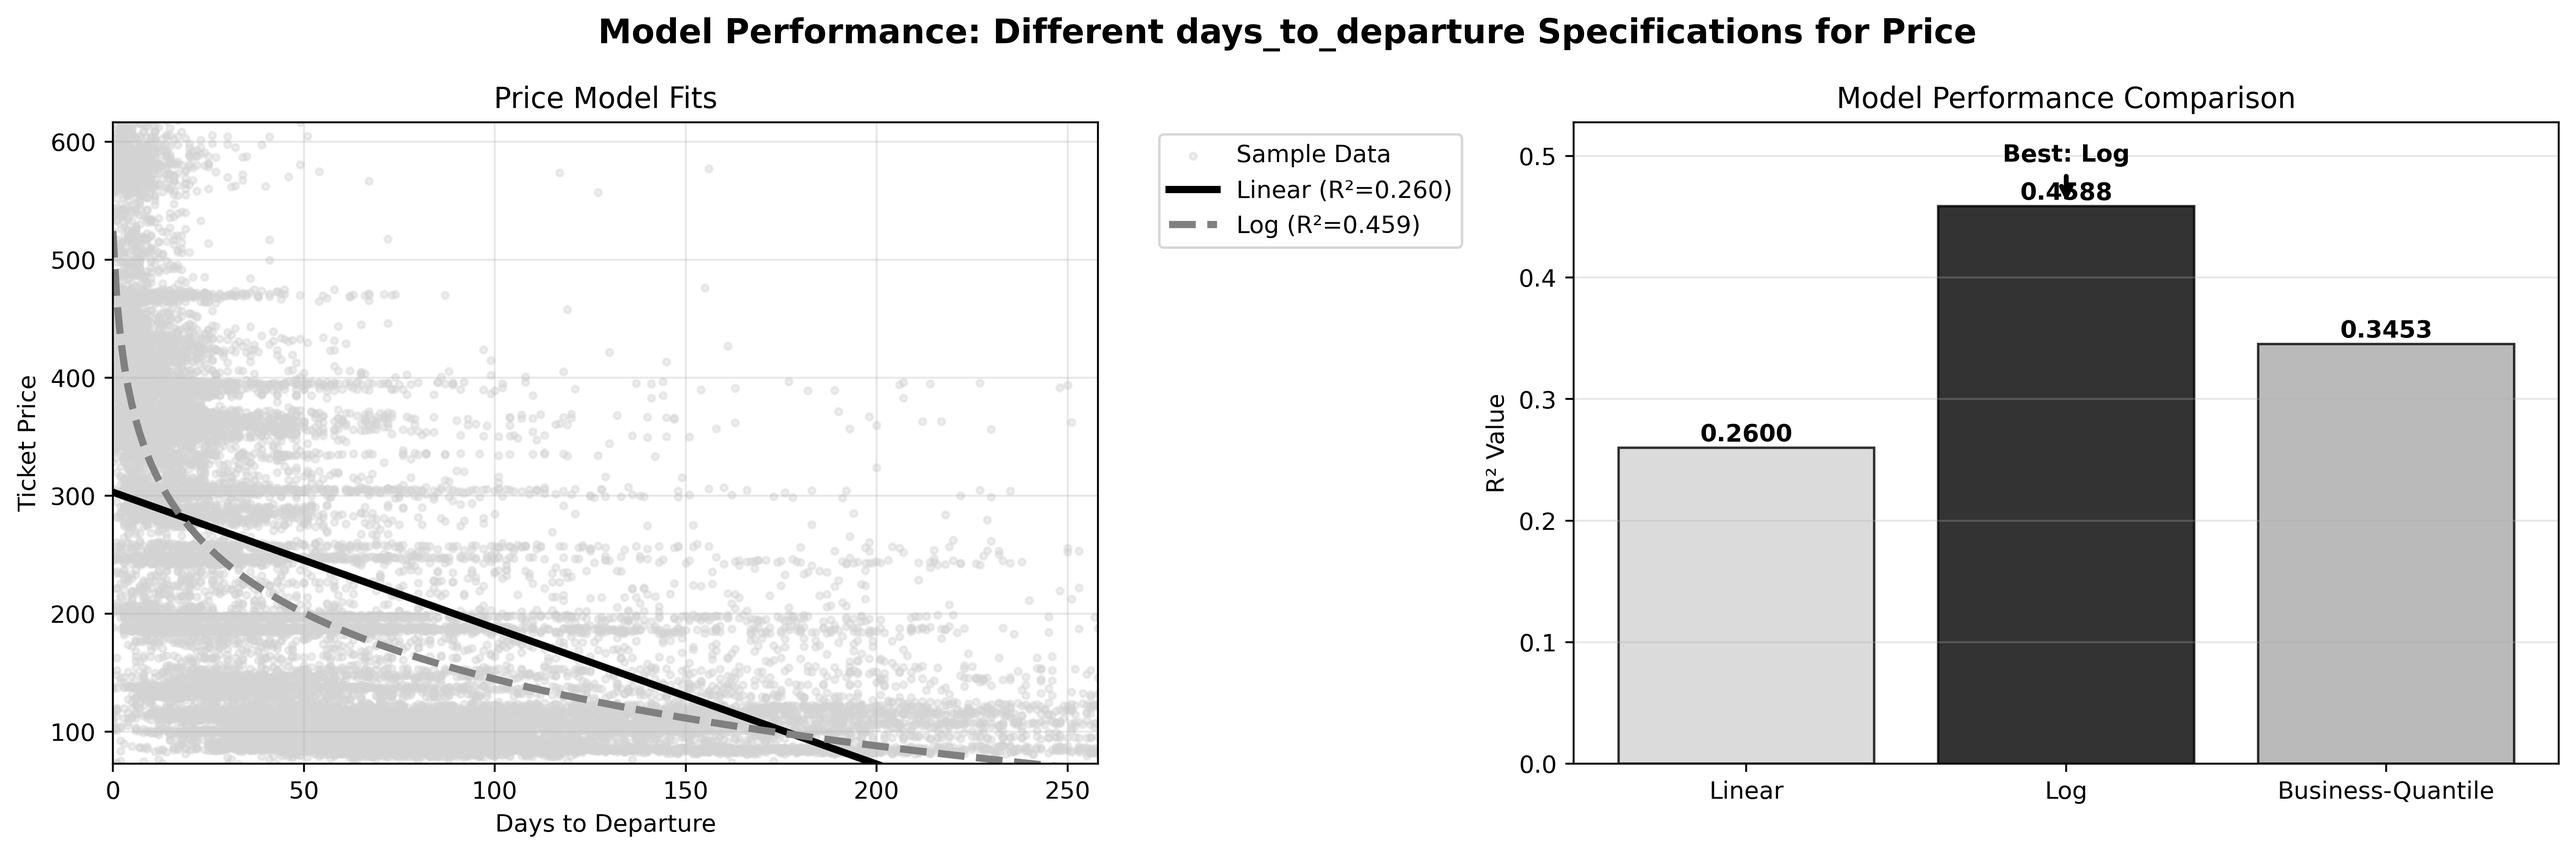
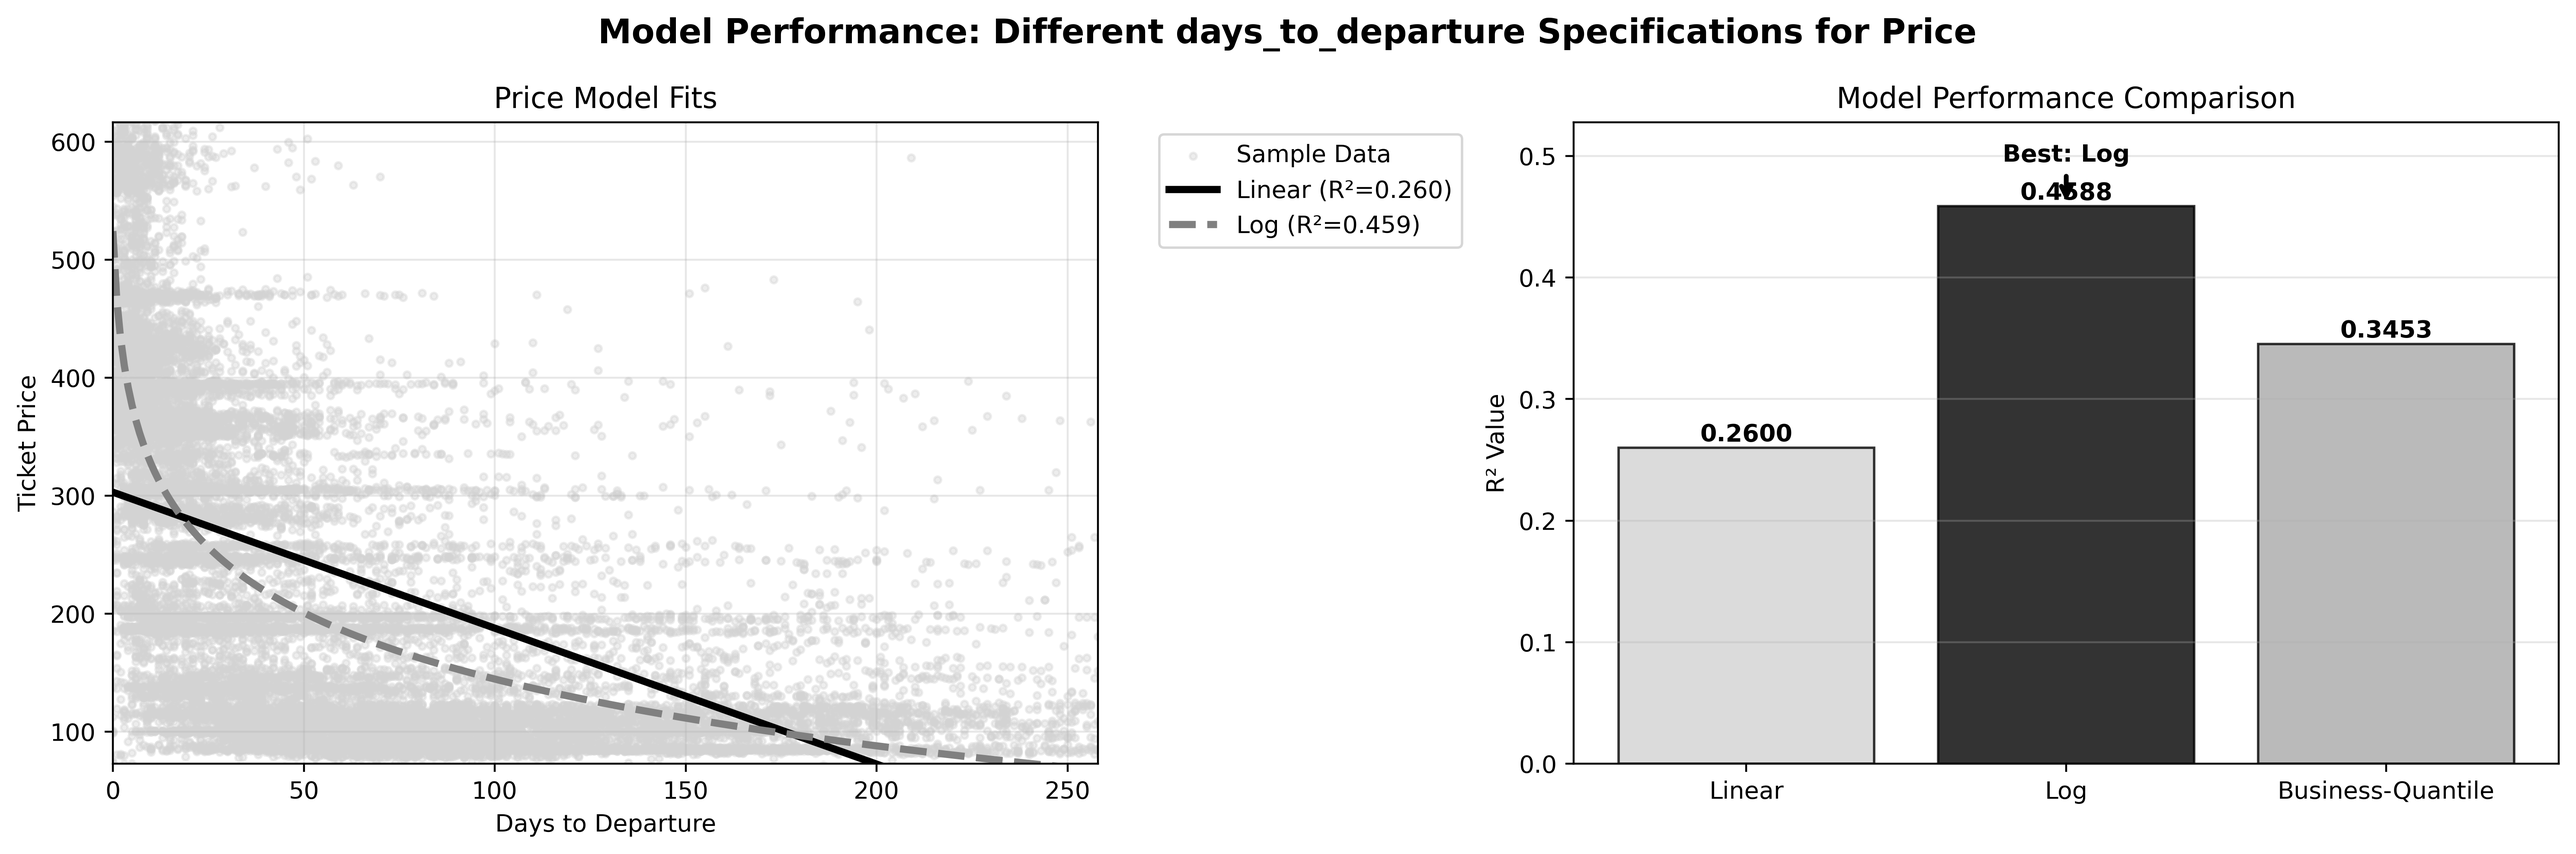
push the last modification

diff --git a/economy.tex b/economy.tex
@@ -10,7 +10,7 @@
 \usepackage{graphicx}
 \usepackage{float}
 \usepackage{hyperref}
-\geometry{margin=1in}
+\geometry{margin=0.9in}
 
 \pagestyle{fancy}
 \fancyhf{} % clear all header and footer fields
@@ -18,7 +18,7 @@
 \fancyfoot[R]{\thepage} % right-aligned page number
 
 \setlength{\parindent}{0pt}
-\setlength{\parskip}{0.5em}
+\setlength{\parskip}{0.3em}
 
 % Reduce space before/after itemize/enumerate
 \usepackage{enumitem}
@@ -142,20 +142,23 @@ We compare OLS (treating price as exogenous) with 2SLS (using supply-side instru
 \toprule
 Method & Specification & Price Elasticity & R² & Bias Factor \\
 \midrule
-OLS & Linear & -0.0646 & 0.0897 & \- \\
-OLS & Log-log & -0.1652 & 0.1406 & \- \\
-2SLS & Linear & -1.6106 & -0.3558 & 24.9× \\
-2SLS & Log-log & -0.9627 & -0.0341 & 5.8× \\
+OLS & Linear & -0.0762 & 0.0851 & \- \\
+OLS & Log-log & -0.2059 & 0.1372 & \- \\
+2SLS & Linear & -1.6106 & -0.3558 & 21.1× \\
+2SLS & Log-log & -0.9627 & -0.0341 & 4.7× \\
 \bottomrule
 \end{tabular}
 \end{table}
 
 \textbf{Specification Choice:} While both 2SLS specifications correct for endogeneity, we focus our economic interpretation on the log-log result (-0.96) rather than the linear specification (-1.61). This choice reflects methodological considerations detailed in Appendix~\ref{app:log_transform}, including superior distributional properties for the skewed quantity data, constant elasticity interpretation, and better accommodation of heteroskedasticity concerns inherent in our dataset.
 
-\textbf{Endogeneity Bias Confirmation:} OLS systematically underestimates price sensitivity by factors as we discussed in section 2.2. The 2SLS with supply-side identification reveals substantially more elastic demand than naive OLS estimates suggest.
+\textbf{Instrument Validation:} Our 2SLS uses 15 supply-side instruments: Cumulative\_sales (capacity constraint) plus 14 Train\_Number\_All dummies (route characteristics). First-stage F-statistic of 1,310.53 (p $<$ 0.001) confirms strong instrument relevance, substantially exceeding the F $>$ 10 threshold.
 
 \subsection{Key Findings \& Validation}
-\textbf{Endogeneity Correction:} 2SLS yields demand elasticity of -0.96 versus OLS estimate of -0.17, representing a 5.8× bias factor. This confirms substantial understatement of price sensitivity in standard estimation.
+
+\textbf{Endogeneity Validation:} Hausman tests strongly reject price exogeneity in both specifications (test statistics: 6,417 linear, 6,230 log-log; both p $<$ 0.001). OLS systematically understates price sensitivity: 4.7× bias in log-log (-0.21 vs -0.96) and 21.1× bias in linear specifications.
+
+\textbf{Bias Quantification:} OLS severely understates price sensitivity. Linear specification: OLS coefficient -0.000789 vs 2SLS -0.016679 (21.1× bias). Log-log specification: OLS elasticity -0.21 vs 2SLS -0.96 (4.7× bias). This confirms simultaneity bias has major economic consequences for managerial decision-making.
 
 \textbf{Model Features:} Our specification accommodates demand heterogeneity through interaction terms and non-linear booking effects, though formal testing would strengthen validation of these patterns.
 
@@ -163,14 +166,9 @@ OLS & Log-log & -0.1652 & 0.1406 & \- \\
 
 \section{Economic Interpretation \& Conclusions}
 
-\subsection{Economic Implications}
-Our corrected elasticity estimates reveal train travel demand is significantly more price-sensitive than conventional wisdom suggests. Using our consistent log specification approach, 2SLS estimation yields a demand elasticity of approximately -0.96, indicating that consumers respond substantially to price changes: a 10\% price increase leads to approximately 9.6\% reduction in quantity demanded.
+Our corrected 2SLS elasticity of -0.96 reveals train travel demand is significantly more price-sensitive than OLS suggests, approaching unit elasticity. While price increases still generate net revenue gains for operators, the near-unit elasticity indicates substantial competitive pressures and meaningful passenger substitution options.
 
-With an elasticity magnitude just below the unit elastic threshold ($|\varepsilon| = 0.96 < 1$), train travel exhibits moderately inelastic demand. This implies that while passengers are price-sensitive, price increases still generate net revenue gains for operators, though the revenue effect diminishes as elasticity approaches unity. The near-unit elasticity suggests significant competitive pressures in the rail transport market, with passengers having meaningful substitute options when prices rise.
-
-\subsection{Conclusions}
-
-From a methodological perspective, this analysis underscores the critical importance of addressing endogeneity in demand estimation and provides a robust framework for supply-side instrumental variable selection. The use of capacity constraints and route characteristics as instruments offers a promising approach for future transportation economics research.
+Methodologically, this analysis demonstrates the critical importance of addressing endogeneity in demand estimation. Our supply-side instrumental variable approach using capacity constraints and route characteristics provides a robust framework for future transportation economics research.
 
 \newpage
 \appendix

diff --git a/main.py b/main.py
@@ -353,13 +353,13 @@ def estimate_2sls_demand(df, specification='linear'):
     print(f"2SLS DEMAND ESTIMATION - {specification.upper()}")
     print(f"{'='*60}")
     
-    # INSTRUMENTS (Z): Variables for identification, based on temporal IV investigation
-    season_cols = [col for col in df.columns if 'departure_season_' in col]  # Main instruments
+    # INSTRUMENTS (Z): Variables for identification, based on temporal IV investigationnts
     train_cols = [col for col in df.columns if 'Train_Number_All_' in col]
     instruments =  ['Culmulative_sales'] + train_cols
     available_instruments = [col for col in instruments if col in df.columns]
     
     # DEMAND SHIFTERS (W): Same as OLS (consistent approach)
+    season_cols = [col for col in df.columns if 'departure_season_' in col]
     base_shifters = season_cols + ['log_days_to_departure', 'departure_is_weekend'] 
     customer_cols = [col for col in df.columns if 'Customer_Cat_' in col]
     
@@ -369,7 +369,7 @@ def estimate_2sls_demand(df, specification='linear'):
     demand_shifters = base_shifters + customer_cols + available_interactions
     available_shifters = [col for col in demand_shifters if col in df.columns]
     
-    print(f"Using {len(available_instruments)} instruments: {len(season_cols)} seasonal + 1 supply + {len(train_cols)} route")
+    print(f"Using {len(available_instruments)} instruments: Culmulative_sales + {len(train_cols)} route")
     print(f"Using {len(available_shifters)} demand shifters (consistent with OLS)")
     print(f"  • Base shifters: {base_shifters}")
     print(f"  • Customer segments: {len([c for c in customer_cols if c in df.columns])}")
